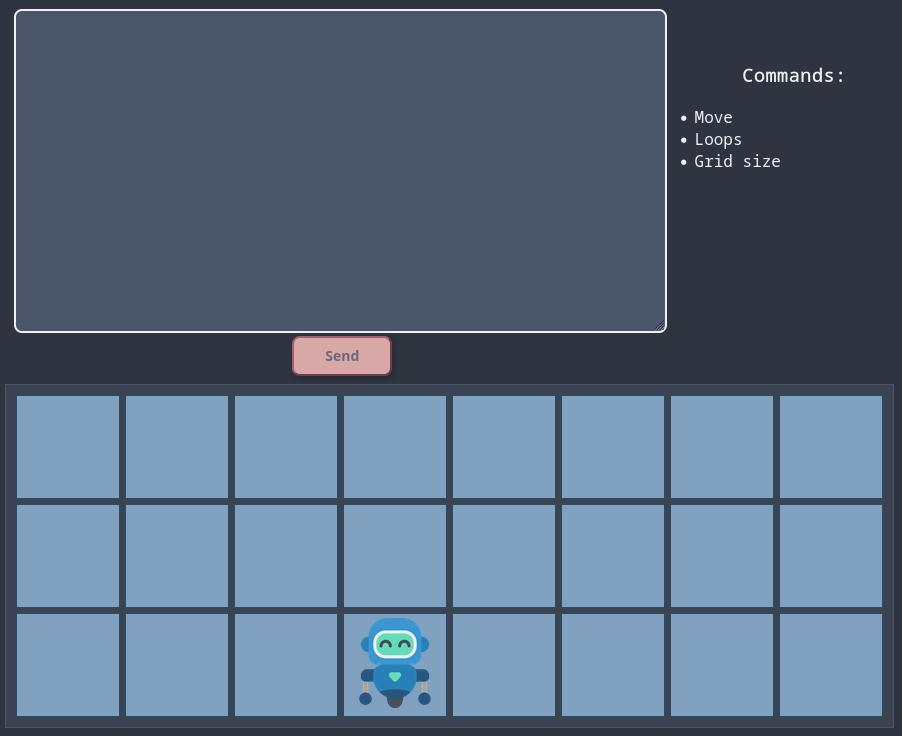
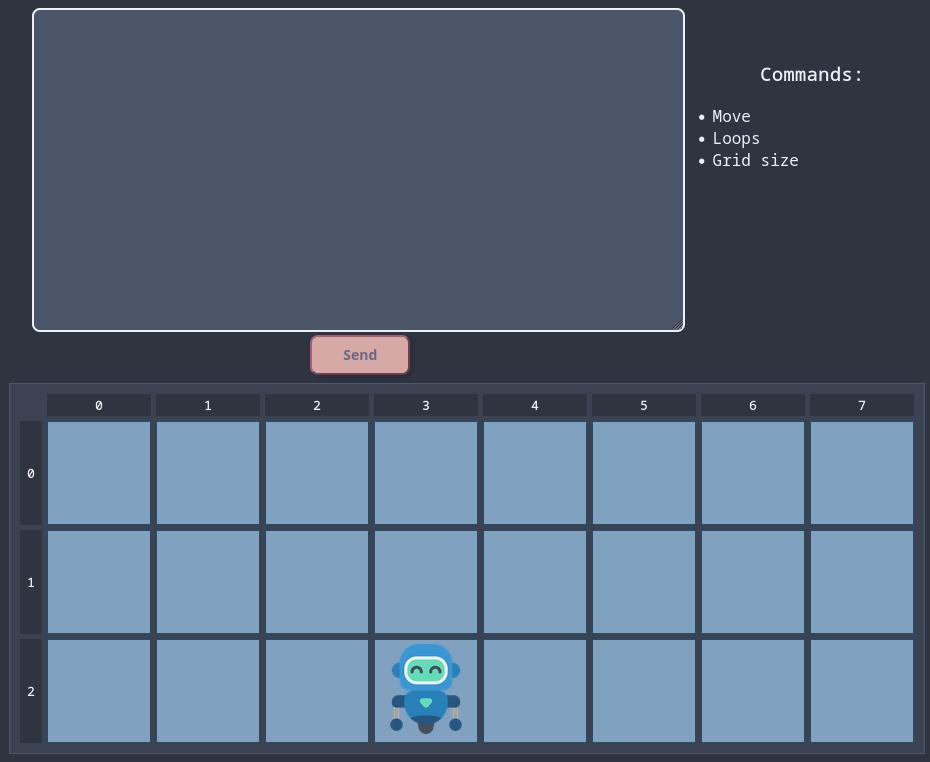
CSS: code page: add lines and columns numbers

Changed region(s): [[0.0, 0.0, 1.0, 1.0], [0.8071, 0.0938, 0.9313, 0.125]]

diff --git a/static/template.css b/static/template.css
@@ -93,14 +93,6 @@ h1 {
   font-size: 1.7rem;
 }
 
-#robot-grid {
-  border: 1px solid #4c566a; /* Adds a black border around the table */
-  margin: 5px; /* Adds space outside the table */
-  background-color: #3b4252; /* Sets the table's background color */
-  padding: 5px; /* Adds space inside the table's border */
-  border-spacing: 5px; /* Adds spacing between table cells */
-}
-
 #grid-size {
   color: #eceff4;
 }
@@ -125,17 +117,55 @@ td {
 
 }
 
-#robot-grid tr, #robot-grid td {
-  border: 1px solid #254e65; /* Adds a black border around each cell */
-  width: 100px; /* Sets the width of each cell */
-  height: 100px; /* Sets the height of each cell */
-  background-color: #81a1c1; /* Sets the background color of the cells */
-  transition: background-color 0.2s ease, border 0.2s ease, transform 0.2s ease; /* Adds smooth transitions for hover effects */
+#robot-grid {
+  border: 1px solid #4c566a; /* Adds a black border around the table */
+  margin: 5px; /* Adds space outside the table */
+  background-color: #3b4252; /* Sets the table's background color */
+  padding: 5px; /* Adds space inside the table's border */
+  border-spacing: 5px; /* Adds spacing between table cells */
 }
 
-#robot-grid td:hover {
-  transform: scale(1.1); /* Slightly enlarges the hovered cell */
-  background-color: #88c0d0; /* Sets the background color of the hovered cell */
+#robot-grid td.grid-cell {
+  border: 1px solid #254e65;
+  width: 100px;
+  height: 100px;
+  background-color: #81a1c1;
+  transition: background-color 0.2s ease, border 0.2s ease, transform 0.2s ease;
+}
+
+/* Hover on cells */
+#robot-grid td.grid-cell:hover {
+  transform: scale(1.1);
+  background-color: #88c0d0;
+}
+
+/* Columns' headers */
+#robot-grid .header {
+  background-color: #2e3440;
+  color: #eceff4;
+  font-size: 0.8rem;
+  text-align: center;
+  font-weight: bold;
+  height: 20px; /* maintenant c’est pris correctement */
+}
+
+/* Lines' headers */
+#robot-grid .header-column {
+  background-color: #2e3440;
+  color: #eceff4;
+  font-size: 0.8rem;
+  text-align: center;
+  font-weight: bold;
+  width: 20px;
+  height: 20px; /* rajoute si tu veux */
+}
+
+/* Corner */
+#robot-grid .corner {
+  background-color: #3b4252;
+  border: none;
+  width: 20px;
+  height: 20px;
 }
 
 button:hover {

diff --git a/templates/template_code.html b/templates/template_code.html
@@ -32,13 +32,23 @@
 
     <table id="robot-grid">
         <tbody>
+        <!-- Header row (columns) -->
+        <tr>
+            <td class="corner"></td>
+            {%- for y in 0..grid_max_j %}
+                <td class="header">{{ y }}</td>
+            {%- endfor %}
+        </tr>
+
         {%- for x in 0..grid_max_i %}
             <tr>
+            <td class="header-column">{{ x }}</td> <!-- Line number -->
+
             {%- for y in 0..grid_max_j %}
                 {%- if x == rustbot_i && y == rustbot_j %}
-                <td data-x='{{ x }}' data-y='{{ y }}'><img src='/static/robot.png' alt='Robot' class='image-responsive'></td>
+                <td class="grid-cell" data-x='{{ x }}' data-y='{{ y }}'><img src='/static/robot.png' alt='Robot' class='image-responsive'></td>
                 {%- else %}
-                <td data-x='{{ x }}' data-y='{{ y }}'></td>
+                <td class="grid-cell" data-x='{{ x }}' data-y='{{ y }}'></td>
                 {%- endif %}
             {%- endfor %}
             </tr>

diff --git a/templates/template_root.html b/templates/template_root.html
@@ -14,7 +14,7 @@
       <div class="preview"><img src="/static/play_preview.jpg" alt="Play mode preview"></div>
     </div>
     <div class="option right" onclick="location.href='/code'">
-      <h2>Code Mode</h2>
+      <h2>Code Mode (⚠ Not working yet! ⚠)</h2>
       <div class="preview"><img src="/static/code_preview.jpg" alt="Play mode preview"></div>
     </div>
   </div>
